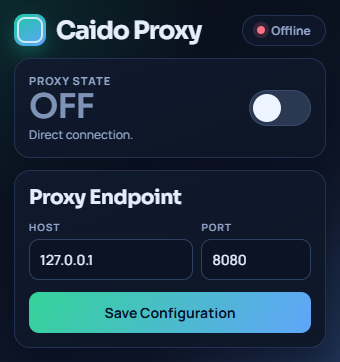
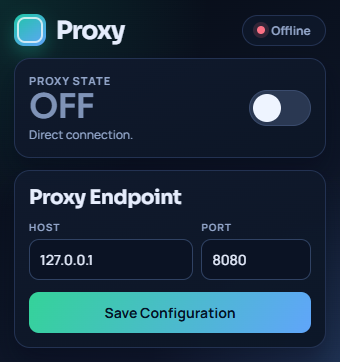
Rename extension branding to Proxy

Changed region(s): [[0.1471, 0.0304, 0.6176, 0.1215]]

diff --git a/background.js b/background.js
@@ -16,7 +16,7 @@ chrome.runtime.onMessage.addListener((message, sender, sendResponse) => {
         proxyForFtp: proxyServer,
         fallbackProxy: proxyServer,
         // <-loopback is the magic string that tells Chrome NOT to bypass localhost/127.0.0.1
-        // This is heavily required for pentesting local apps with Caido!
+        // This is heavily required for pentesting local apps with the local proxy!
         bypassList: ["<-loopback>"]
       }
     };
@@ -27,7 +27,7 @@ chrome.runtime.onMessage.addListener((message, sender, sendResponse) => {
         if (chrome.runtime.lastError) {
           console.error("Proxy setting failed: ", chrome.runtime.lastError);
         } else {
-          console.log(`Caido Proxy fully enabled for all traffic at ${message.host}:${message.port}`);
+          console.log(`Proxy fully enabled for all traffic at ${message.host}:${message.port}`);
         }
       }
     );
@@ -40,7 +40,7 @@ chrome.runtime.onMessage.addListener((message, sender, sendResponse) => {
         if (chrome.runtime.lastError) {
           console.error("Proxy clearing failed: ", chrome.runtime.lastError);
         } else {
-          console.log("Caido Proxy disabled. Control yielded.");
+          console.log("Proxy disabled. Control yielded.");
         }
       }
     );

diff --git a/popup.html b/popup.html
@@ -1,9 +1,9 @@
-<!DOCTYPE html>
+<!DOCTYPE html>
 <html lang="en">
 <head>
   <meta charset="UTF-8">
   <meta name="viewport" content="width=device-width, initial-scale=1.0">
-  <title>Caido Proxy</title>
+  <title>Proxy</title>
   <link rel="stylesheet" href="popup.css">
 </head>
 <body>
@@ -11,7 +11,7 @@
     <header class="header">
       <div class="logo-container">
         <div class="logo" aria-hidden="true"></div>
-        <h1>Caido Proxy</h1>
+        <h1>Proxy</h1>
       </div>
       <div class="status-badge">
         <span class="status-indicator"></span>

diff --git a/README.md b/README.md
@@ -1,71 +1,53 @@
-# 🚀 CAIDO-PROXY-EXTENSION
+# Proxy
 
-Caido Proxy is a browser extension that acts as a configurable proxy switcher to route traffic through Caido cleanly. Designed specifically to toggle off entirely when disabled, ensuring zero conflict with other extensions like ProtonVPN.
+Proxy is a browser extension that lets you quickly route traffic through a local proxy and cleanly disable it when you are done.
 
 <div align="center">
-  <img src="screenshot.png" alt="Caido Proxy Extension UI" width="300" />
+  <img src="screenshot.png" alt="Proxy dark popup UI" width="320" />
 </div>
 
----
-## ✨ Features
+## Features
 
-### Seamless Proxy Routing
-- **Clean Configuration** – Set custom host and port inputs (defaults to 127.0.0.1:8080).
-- **True Disable** – Completely clears proxy settings when turned off, preventing conflicts with VPNs.
+- Compact dark popup UI with clear ON/OFF state.
+- One-click proxy toggle.
+- Configurable host and port (default `127.0.0.1:8080`).
+- Settings persist with `chrome.storage.local`.
+- Proxy settings are fully cleared when disabled to avoid conflicts with VPN/proxy tools.
 
-### 🎨 Simple & Intuitive UI
-- Fast one-click toggle switch for immediate activation.
-- Easily save and retain your preferred configuration.
-- Visual indicators showing current interception state.
+## Usage
 
-### ⚡ Workflow
-- Instantly switch traffic interception on or off.
-- No need to dive into browser network settings manually.
-
----
-## 🛠 How to Use
-
-1. Click the Caido Proxy extension icon in your browser toolbar.
-2. Enter your Caido host (e.g., `127.0.0.1`) and port (e.g., `8080`).
+1. Click the extension icon.
+2. Set your proxy host and port.
 3. Click **Save Configuration**.
-4. Toggle the switch to **ON** to start routing traffic through Caido.
-5. Toggle to **OFF** when you are done to resume normal browsing (and free up VPN routing).
+4. Toggle proxy **ON** to route traffic through your configured proxy.
+5. Toggle proxy **OFF** to return to direct browsing.
 
----
-## 🧾 Changelog
+## Changelog
 
-### v1.0
-- Initial release.
-- Added custom Host/Port configuration fields.
-- Implemented complete proxy settings wipe upon turning off.
+### v1.1.1
 
----
-## 📦 Installation
+- Removed previous branding and renamed UI/app text to `Proxy`.
+- Updated popup title/header to `Proxy`.
+- Updated `screenshot.png`.
 
-1. Download the repo ZIP and unzip.
-2. Chrome: `chrome://extensions` → enable **Developer mode** → **Load unpacked** → select the folder.
-3. Pin the extension from the toolbar puzzle icon.
+### v1.1.0
 
----
-## 🤝 Contributors
+- Redesigned popup to a cleaner, simpler dark theme.
+- Reduced vertical spacing to remove dead area.
+- Improved status copy in the popup.
+- Updated `screenshot.png`.
 
-- **Bytes_Knight** — Creator & Maintainer  
-  Bugcrowd: [@Bytes_Knight](https://bugcrowd.com/Bytes_Knight)
+### v1.0.0
 
----
-## 🧭 Contributing
+- Initial release with configurable host/port and proxy toggle.
 
-1. Fork the repo.
-2. Create a branch: `git checkout -b feature/your-feature-name`.
-3. Make changes and commit: `git commit -m "Add feature"`.
-4. Push: `git push origin feature/your-feature-name`.
-5. Open a PR.
+## Installation
 
----
-## 📜 License
+1. Download or clone this repository.
+2. Open `chrome://extensions`.
+3. Enable **Developer mode**.
+4. Click **Load unpacked** and select this folder.
 
-MIT. See [LICENSE](LICENSE).
+## License
 
----
-
-> 🎯 CAIDO-PROXY-EXTENSION — built by a hunter, for hunters.
+MIT.
